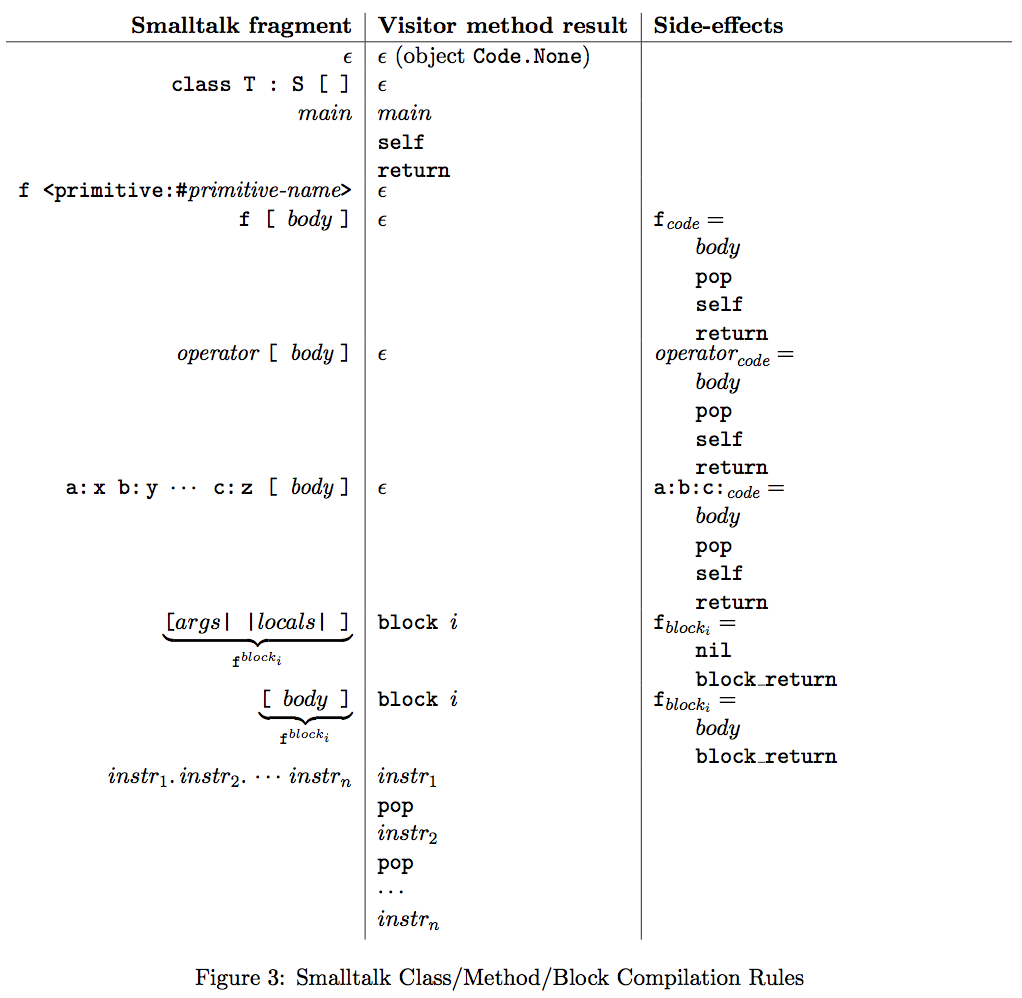
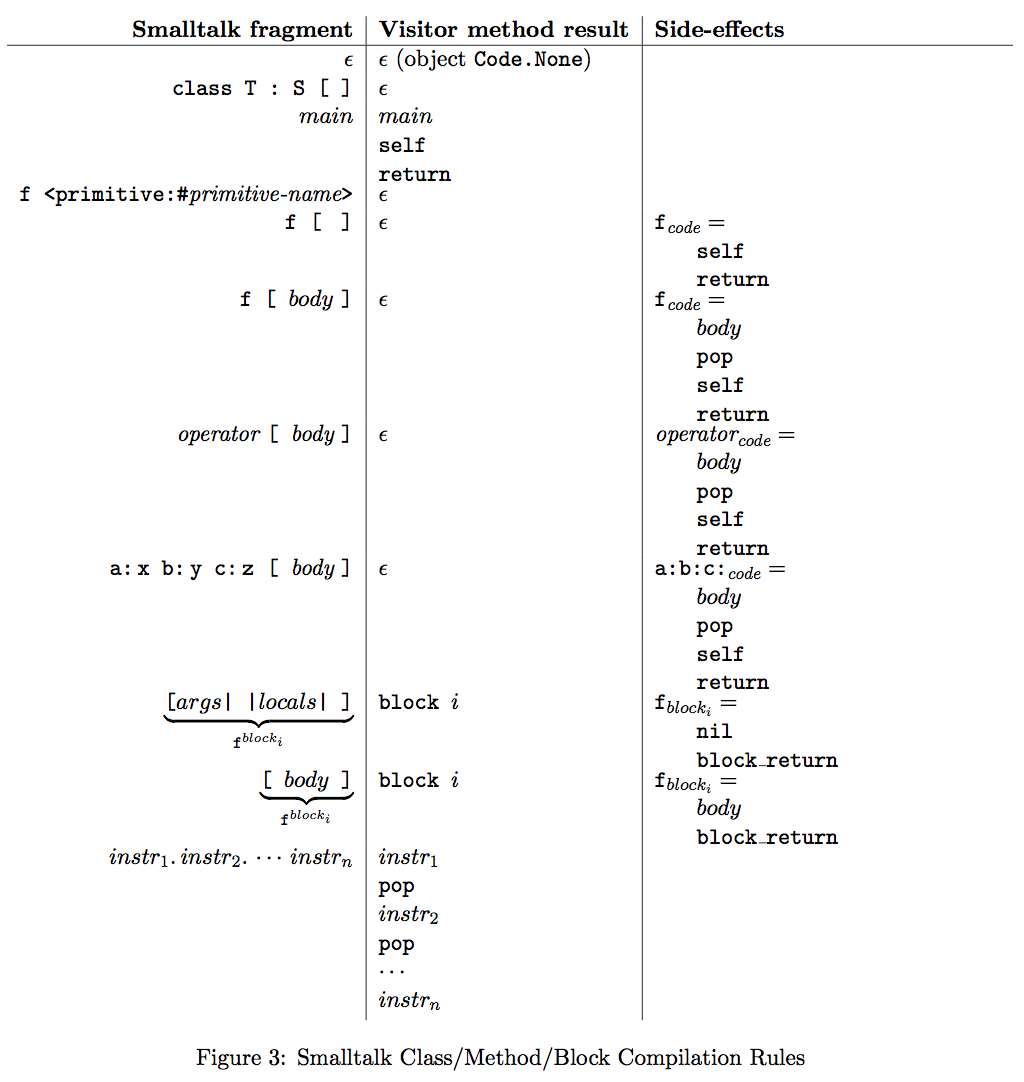
update images

diff --git a/projects/bytecode.tex b/projects/bytecode.tex
@@ -189,6 +189,13 @@ return}
 
 {\tt f <primitive:\#}{\it primitive-name}{\tt >} & $\epsilon$ & \\
 
+{\tt f [ } {\tt ]} & $\epsilon$&
+\begin{minipage}[t]{0.35\linewidth}
+$\text{\tt f}_{\text{\it code}} =$ \\
+\parbox{20pt}{~}{\tt self}\\
+\parbox{20pt}{~}{\tt return}
+\end{minipage} \\
+
 {\tt f [ }$body$ {\tt ]} & $\epsilon$&
 \begin{minipage}[t]{0.35\linewidth}
 $\text{\tt f}_{\text{\it code}} =$ \\
@@ -207,7 +214,7 @@ $\text{\it operator}_{\text{\it code}} =$ \\
 \parbox{20pt}{~}{\tt return}
 \end{minipage} \\
 
-{\tt a:\,x b:\,y $\cdots$ c:\,z [ }{\it body} {\tt ]}  & $\epsilon$&
+{\tt a:\,x b:\,y c:\,z [ }{\it body} {\tt ]}  & $\epsilon$&
 \begin{minipage}[t]{0.35\linewidth}
 $\text{\tt a:b:c:}_{\text{\it code}} =$ \\
 \parbox{20pt}{~}$body$\\
